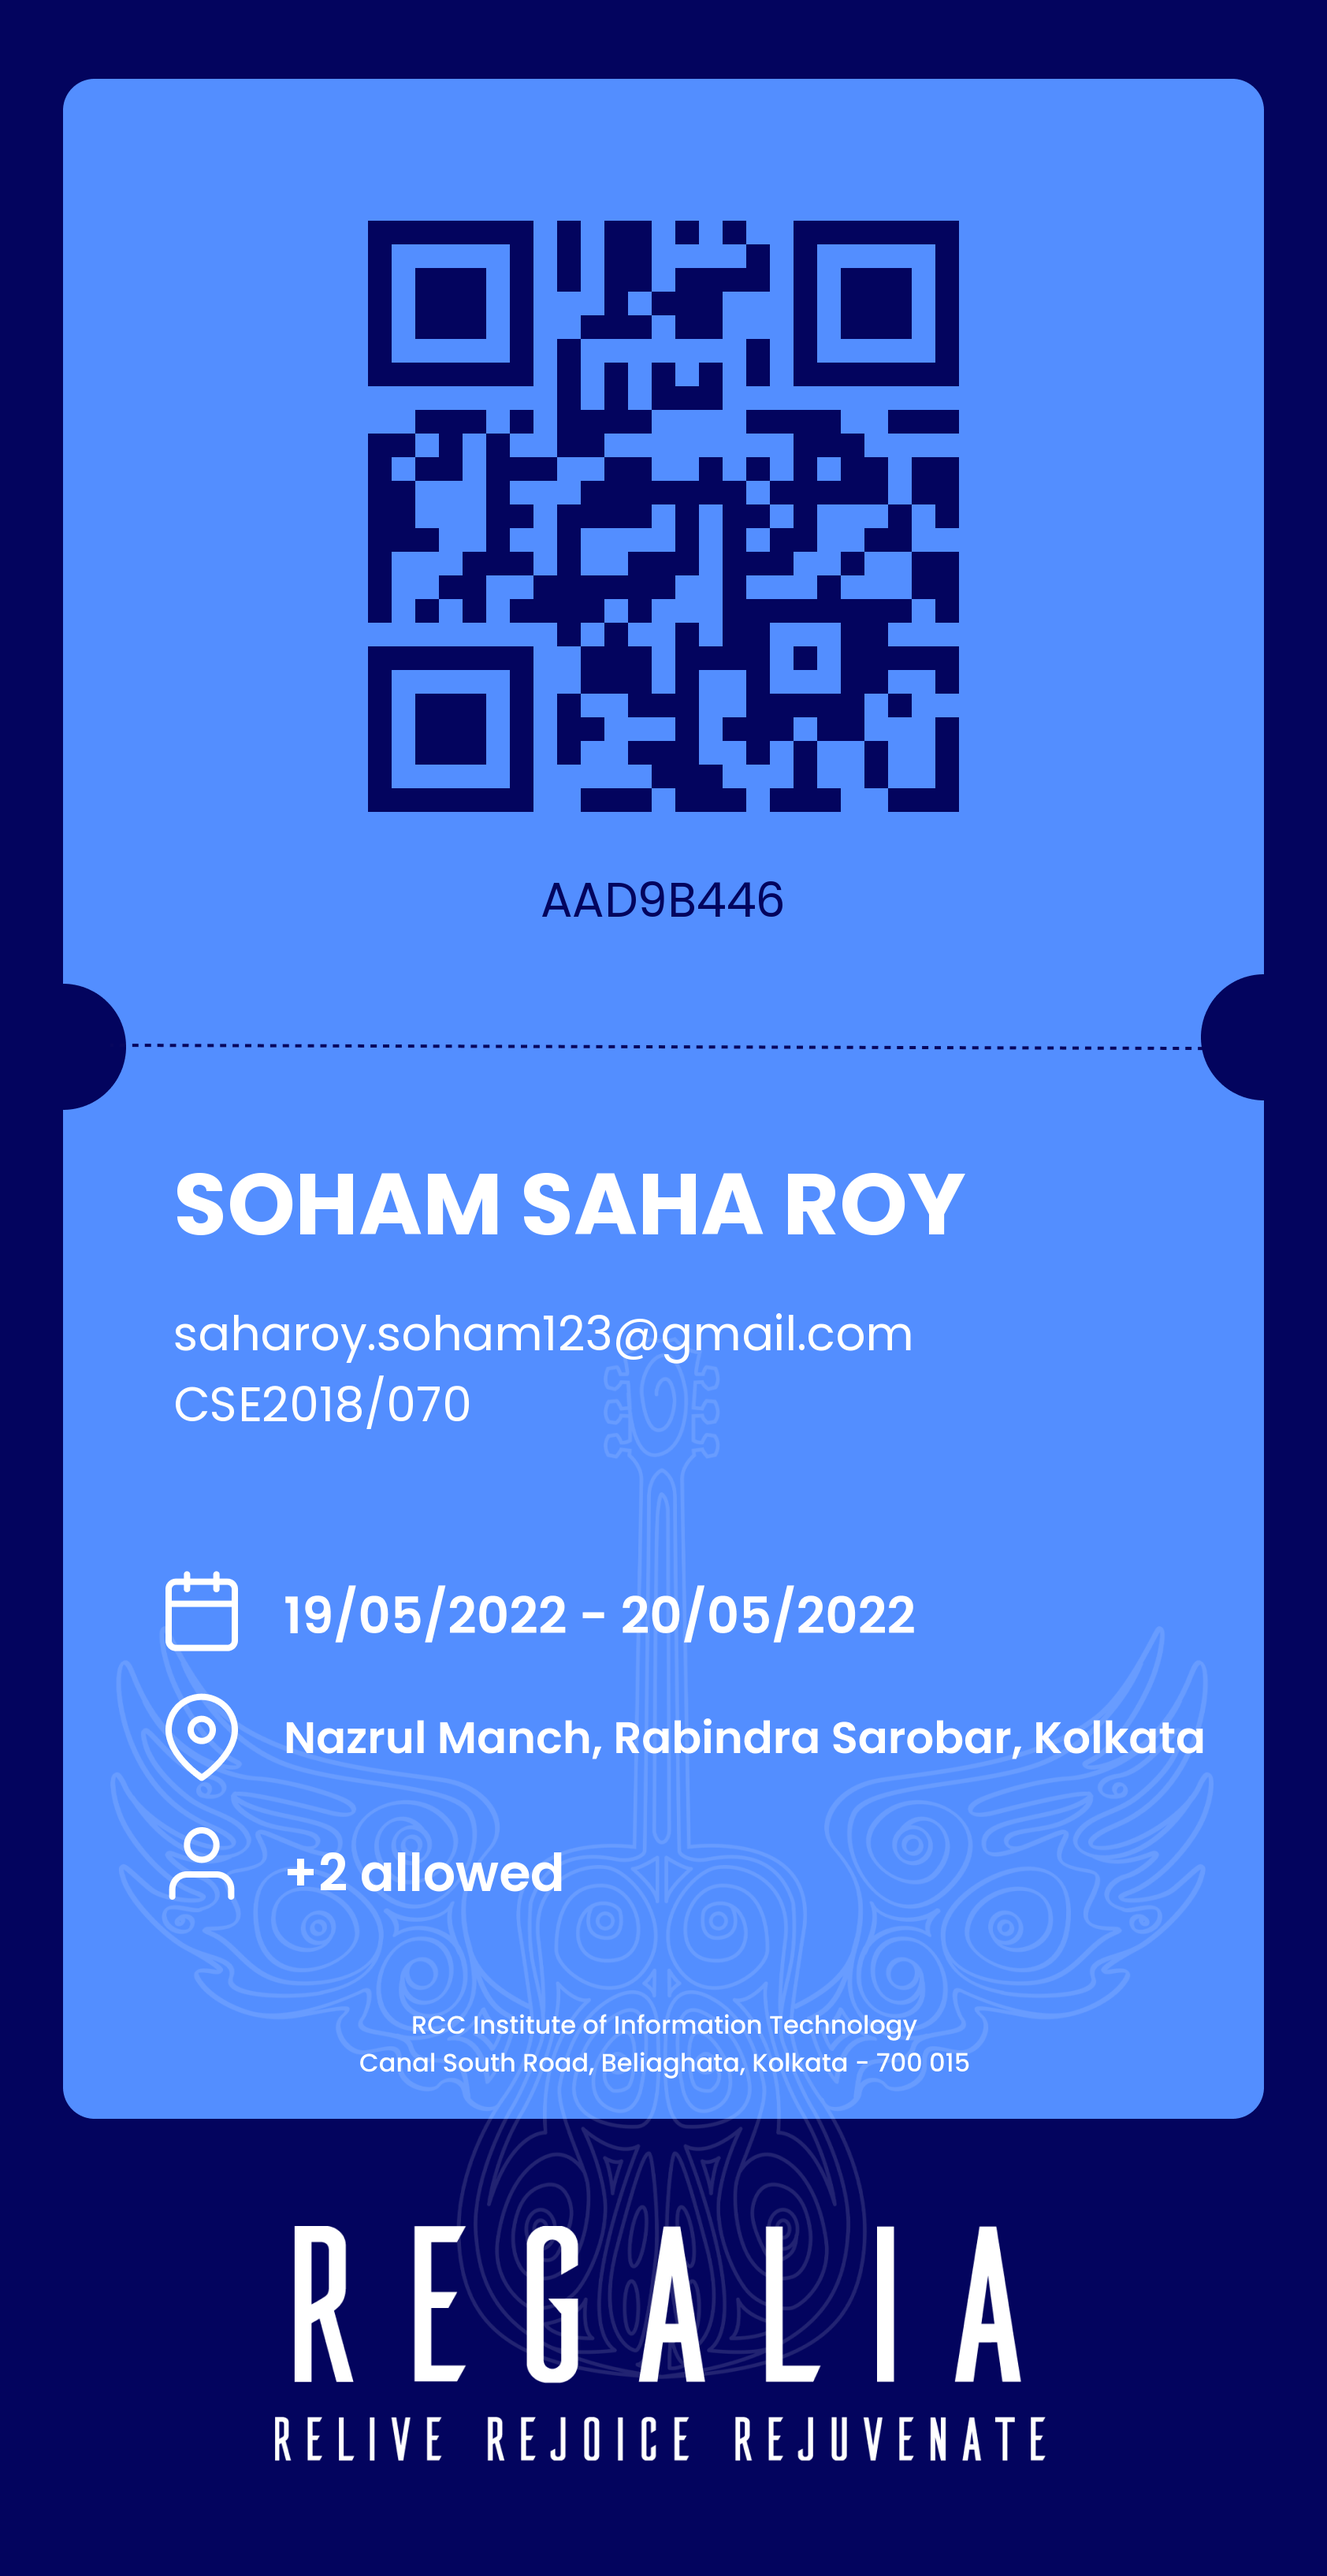
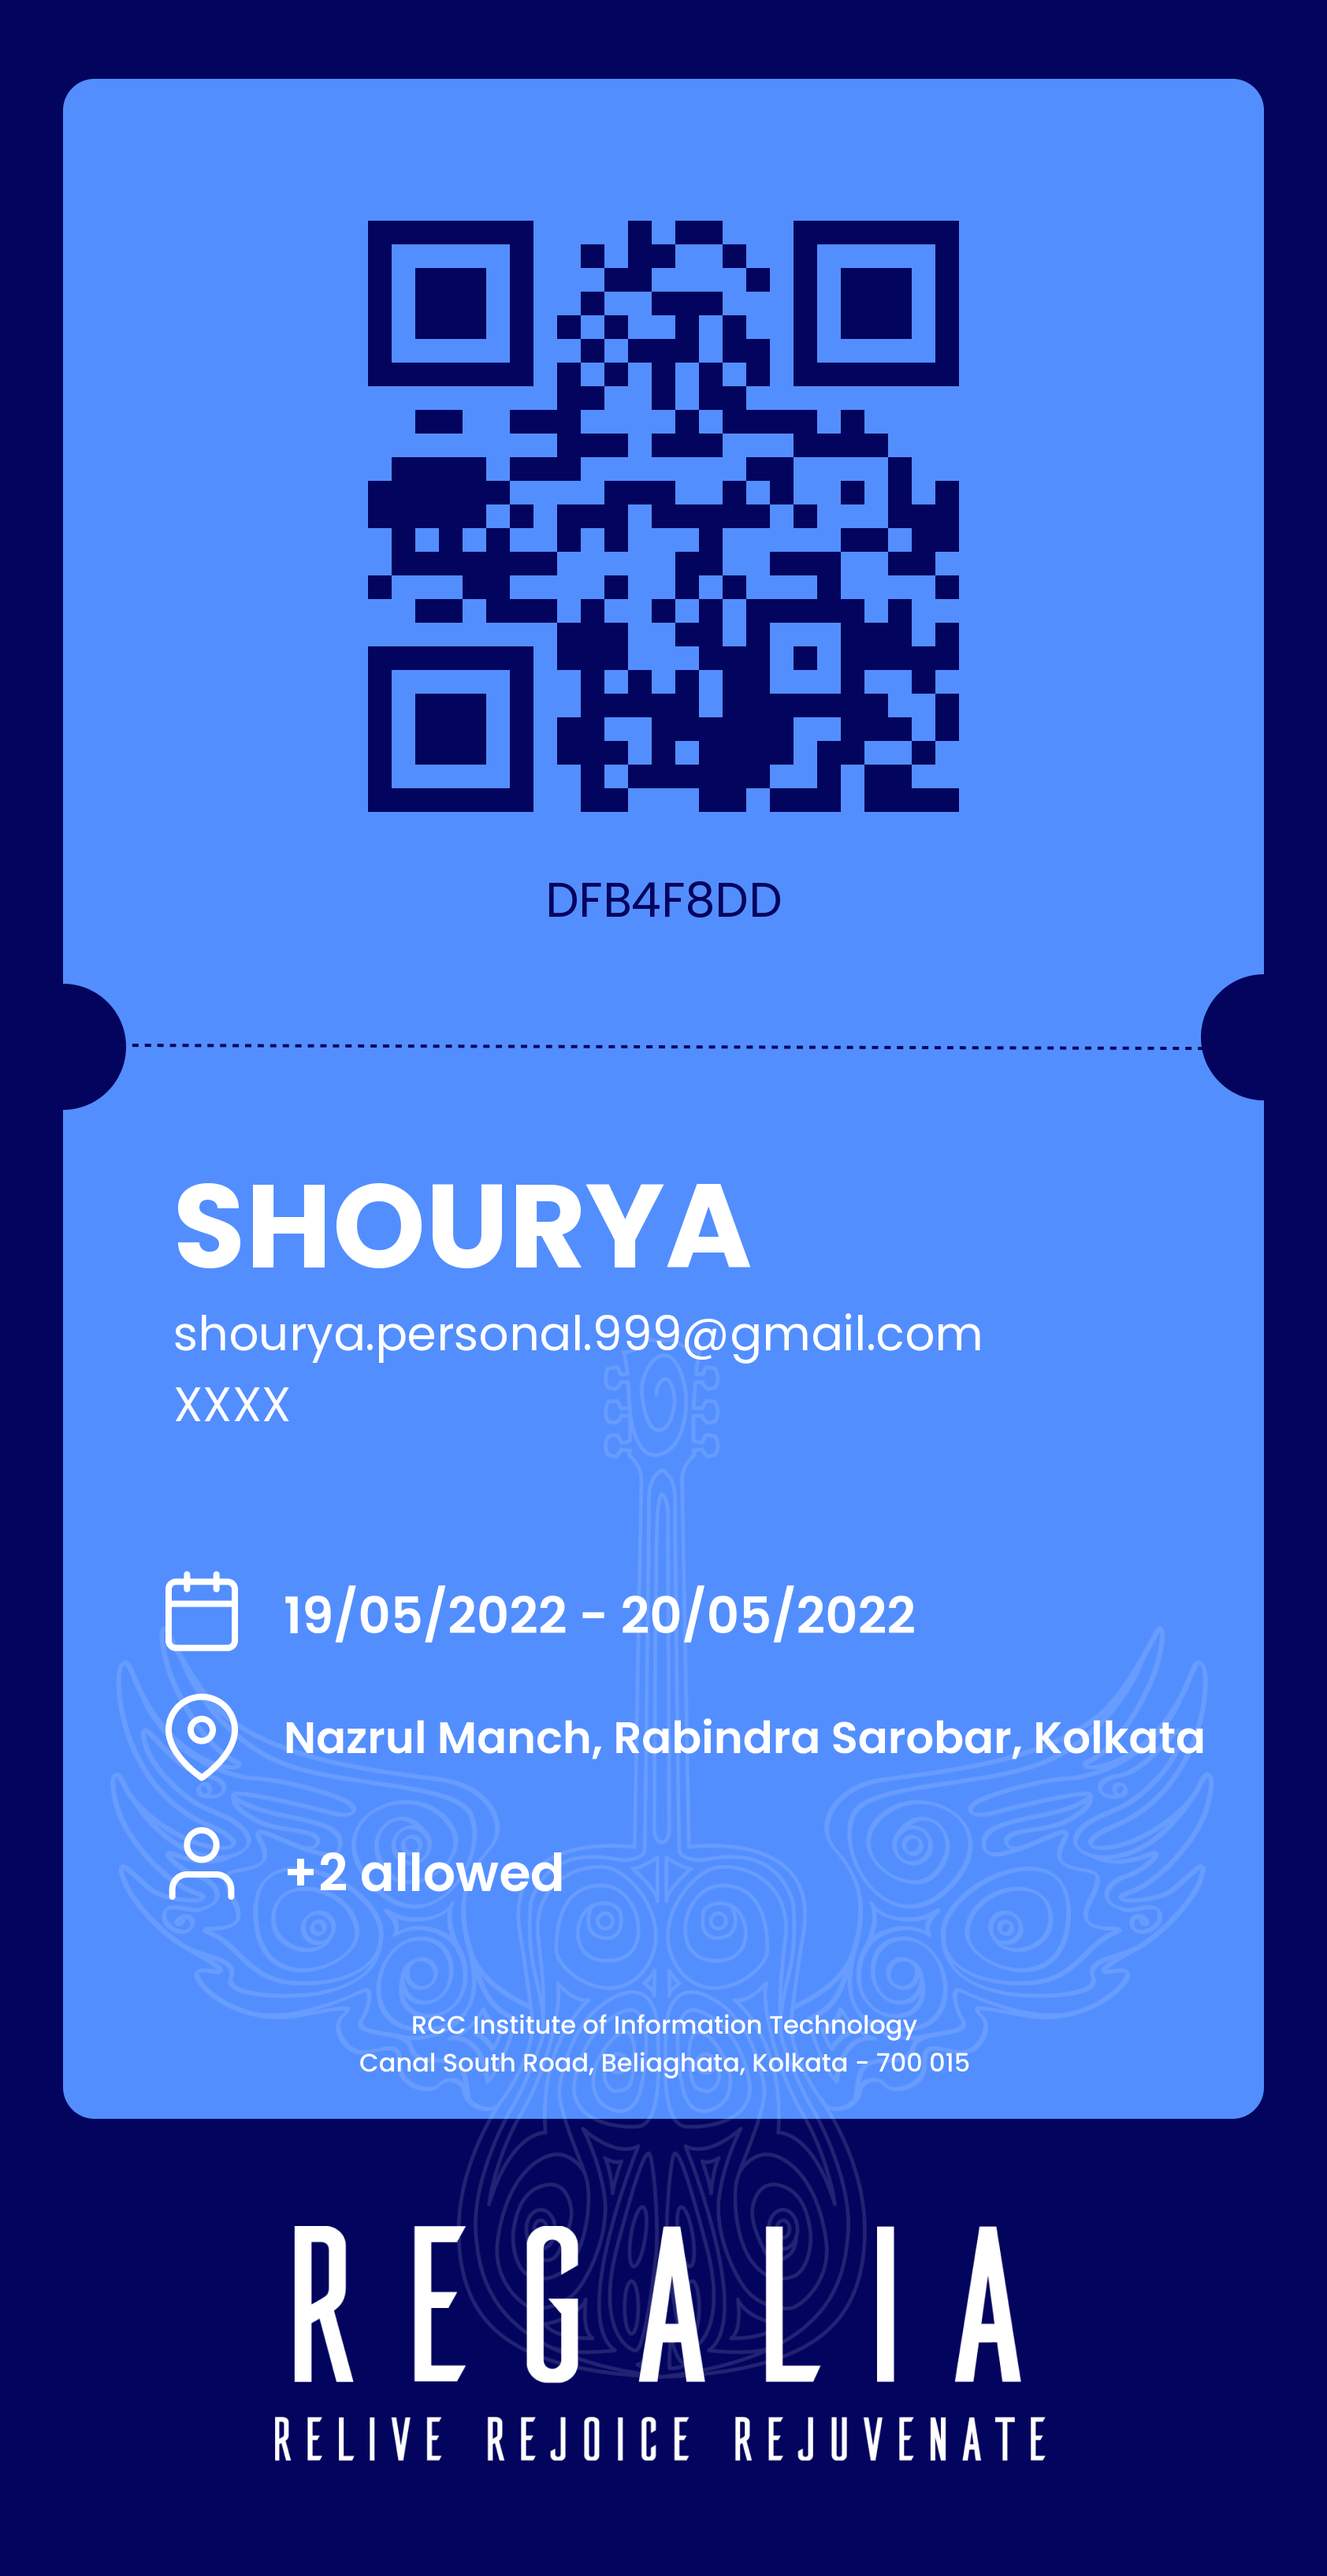
added send mail to regalia_pass pass create

Changed region(s): [[0.2779, 0.0624, 0.7411, 0.3121], [0.1235, 0.437, 0.7411, 0.5618], [0.4014, 0.3433, 0.5867, 0.3745]]

diff --git a/routes/resend_email_scripts/generate_pass.py b/routes/resend_email_scripts/generate_pass.py
@@ -4,8 +4,12 @@ from routes.resend_email_scripts import mail
 from routes.resend_email_scripts import create_pass
 
 template = Image.open("routes/resend_email_scripts/templates/pass_template.png")
-detailsFont = ImageFont.truetype("routes/resend_email_scripts/templates/fonts/Poppins-Regular.ttf", 60)
-allowedFont = ImageFont.truetype("routes/resend_email_scripts/templates/fonts/Poppins-SemiBold.ttf", 65)
+detailsFont = ImageFont.truetype(
+    "routes/resend_email_scripts/templates/fonts/Poppins-Regular.ttf", 60
+)
+allowedFont = ImageFont.truetype(
+    "routes/resend_email_scripts/templates/fonts/Poppins-SemiBold.ttf", 65
+)
 
 
 def makeCertificate(email, name, roll_number, allowed):
@@ -28,7 +32,10 @@ def makeCertificate(email, name, roll_number, allowed):
     # name
     nameFont = 150
     w, h = draw.textsize(
-        name.upper(), ImageFont.truetype("routes/resend_email_scripts/templates/fonts/Poppins-Bold.ttf", nameFont)
+        name.upper(),
+        ImageFont.truetype(
+            "routes/resend_email_scripts/templates/fonts/Poppins-Bold.ttf", nameFont
+        ),
     )
     difference = w - (1682 - 440)
     if difference > 0 and difference <= 100:
@@ -45,7 +52,9 @@ def makeCertificate(email, name, roll_number, allowed):
         xy=(220, 1450),
         text=name.upper(),
         fill="white",
-        font=ImageFont.truetype("routes/resend_email_scripts/templates/fonts/Poppins-Bold.ttf", nameFont),
+        font=ImageFont.truetype(
+            "routes/resend_email_scripts/templates/fonts/Poppins-Bold.ttf", nameFont
+        ),
     )
     # email
     draw.text(xy=(220, 1650), text=email, fill="white", font=detailsFont)
@@ -67,8 +76,11 @@ def makeCertificate(email, name, roll_number, allowed):
 
 
 def makeQR(data):
-        qr = pyqrcode.create(data)
-        qr.png(
-            "routes/resend_email_scripts/templates/qr_code.png", scale=30, module_color="#03045E", background="#538EFF"
-        )
-        return qr.get_png_size(30)
+    qr = pyqrcode.create(data)
+    qr.png(
+        "routes/resend_email_scripts/templates/qr_code.png",
+        scale=30,
+        module_color="#03045E",
+        background="#538EFF",
+    )
+    return qr.get_png_size(30)

diff --git a/routes/regalia_pass.py b/routes/regalia_pass.py
@@ -15,7 +15,10 @@ oauth2_scheme = OAuth2PasswordBearer(tokenUrl="token")
 
 @route.post("/", status_code=201)
 def add_pass(
-    response: Response, regalia_pass: Pass, count_of_bands: int = 0, token: str = Depends(oauth2_scheme)
+    response: Response,
+    regalia_pass: Pass,
+    count_of_bands: int = 0,
+    token: str = Depends(oauth2_scheme),
 ):
     try:
         if check_token(token):
@@ -38,6 +41,14 @@ def add_pass(
                     }
                 )
 
+                if regalia_pass.server:
+                    generate_pass.makeCertificate(
+                        regalia_pass.email,
+                        regalia_pass.name,
+                        regalia_pass.roll_number,
+                        regalia_pass.allowed,
+                    )
+
                 return {
                     "_id": uni_id,
                     "name": regalia_pass.name,
@@ -54,7 +65,7 @@ def add_pass(
 
             else:
                 response.status_code = 401
-                pass_obj['created_now'] = False
+                pass_obj["created_now"] = False
                 return pass_obj
 
         else:
@@ -65,7 +76,9 @@ def add_pass(
 
 
 @route.patch("/resend_mail", status_code=201)
-def resend_pass(response: Response, other_body: OtherBody, token: str = Depends(oauth2_scheme)):
+def resend_pass(
+    response: Response, other_body: OtherBody, token: str = Depends(oauth2_scheme)
+):
     try:
         if check_token(token):
             passes = config.regalia22_db["pass"]
@@ -78,7 +91,12 @@ def resend_pass(response: Response, other_body: OtherBody, token: str = Depends(
                     {"_id": other_body.uid},
                     {"$set": {"email": other_body.email}},
                 )
-                generate_pass.makeCertificate(other_body.email, pass_obj["name"], pass_obj["roll_number"], pass_obj["allowed"])
+                generate_pass.makeCertificate(
+                    other_body.email,
+                    pass_obj["name"],
+                    pass_obj["roll_number"],
+                    pass_obj["allowed"],
+                )
 
                 return {"message": "mail sent"}
 

diff --git a/routes/resend_email_scripts/mail.py b/routes/resend_email_scripts/mail.py
@@ -24,16 +24,27 @@ def send_mail(mail, name, uid, allowed):
         t = requests.post(
             "https://api.eu.mailgun.net/v3/" + env_config.mailgun_domain + "/messages",
             auth=("api", env_config.mailgun_key),
-            files=[("attachment", open("routes/resend_email_scripts/templates/pass.png", "rb")), ("attachment", open("routes/resend_email_scripts/templates/promotional.jpg", "rb"))],
+            files=[
+                (
+                    "attachment",
+                    open("routes/resend_email_scripts/templates/pass.png", "rb"),
+                ),
+                (
+                    "attachment",
+                    open("routes/resend_email_scripts/templates/promotional.jpg", "rb"),
+                ),
+            ],
             data={
-                "from": "Regalia'22 Team <no-reply-regaila-pass@" + env_config.mailgun_domain + ">",
+                "from": "Regalia'22 Team <no-reply-regaila-pass@"
+                + env_config.mailgun_domain
+                + ">",
                 "to": [mail],
                 "subject": "Invitation for Regalia'22",
                 "html": html_obj,
             },
         )
 
-        print(f'{t.reason} - {t.status_code}')
+        print(f"{t.reason} - {t.status_code}")
 
     except Exception as e:
         print(e)

diff --git a/routes/unpaid_pass.py b/routes/unpaid_pass.py
@@ -11,6 +11,7 @@ route = APIRouter(prefix="/unpaid_pass", tags=["unpaid_pass"])
 
 oauth2_scheme = OAuth2PasswordBearer(tokenUrl="token")
 
+
 @route.post("/", status_code=201)
 def add_unpaid_pass(
     unpaid_pass: Unpaid_pass = Body(...), token: str = Depends(oauth2_scheme)
@@ -22,8 +23,8 @@ def add_unpaid_pass(
                 {
                     "name": unpaid_pass.name,
                     "roll_number": unpaid_pass.roll_number,
-                    "passing_year":unpaid_pass.passing_year,
-                    "department":unpaid_pass.department,
+                    "passing_year": unpaid_pass.passing_year,
+                    "department": unpaid_pass.department,
                     "_id": str(datetime.now()),
                 }
             )

diff --git a/routes/search.py b/routes/search.py
@@ -11,11 +11,15 @@ oauth2_scheme = OAuth2PasswordBearer(tokenUrl="token")
 
 
 @route.get("/", status_code=200)
-def search_email(other_body:OtherBody = Body(...) , token: str = Depends(oauth2_scheme)):
+def search_email(
+    other_body: OtherBody = Body(...), token: str = Depends(oauth2_scheme)
+):
     if check_token(token):
         pass_obj = config.regalia22_db["pass"]
 
-        pass_obj = pass_obj.find_one({"roll_number": {"$regex": other_body.roll_no , "$options":"i"}})
+        pass_obj = pass_obj.find_one(
+            {"roll_number": {"$regex": other_body.roll_no, "$options": "i"}}
+        )
 
         if pass_obj is None:
             return {"message": "No pass found"}

diff --git a/main.py b/main.py
@@ -1,6 +1,16 @@
 from fastapi import FastAPI
 from fastapi.middleware.cors import CORSMiddleware
-from routes import team, regalia_pass, scan, home, search, verify, guest, participant ,unpaid_pass
+from routes import (
+    team,
+    regalia_pass,
+    scan,
+    home,
+    search,
+    verify,
+    guest,
+    participant,
+    unpaid_pass,
+)
 
 
 app = FastAPI()

diff --git a/routes/verify.py b/routes/verify.py
@@ -12,8 +12,8 @@ oauth2_scheme = OAuth2PasswordBearer(tokenUrl="token")
 @route.patch("/{unique_id}", status_code=200)
 def verify_pass(
     unique_id: str,
+    count_of_bands: int,
     token: str = Depends(oauth2_scheme),
-    count_of_bands: int | None = None,
 ):
     if check_token(token):
         passes = config.regalia22_db["pass"]

diff --git a/models/unpaid_pass.py b/models/unpaid_pass.py
@@ -3,7 +3,7 @@ from pydantic import Field, BaseModel
 
 class Unpaid_pass(BaseModel):
     name: str = Field(...)
-    roll_number: str  = ""
+    roll_number: str = ""
     passing_year: str = ""
     department: str = Field(...)
 

diff --git a/models/regalia_pass.py b/models/regalia_pass.py
@@ -9,6 +9,7 @@ class Pass(BaseModel):
     phone_number: str = ""
     day_1_validity: str = Field(...)
     day_2_validity: str = Field(...)
+    server: bool = False
 
     class Config:
         arbitrary_types_allowed = True

diff --git a/config.py b/config.py
@@ -8,4 +8,4 @@ import mongo_loader
 
 regalia22_db = mongo_loader.get_cluster0()
 
-days = ["18", "20"]  # regalia'22 starts on 19th of may'22
+days = ["19", "20"]  # regalia'22 starts on 19th of may'22
